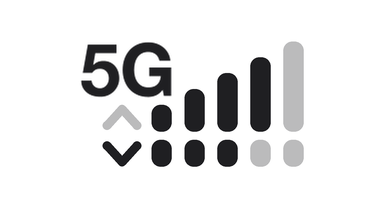
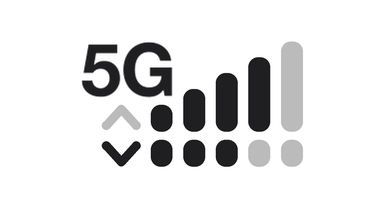
感叹号样式的列加粗一点（总宽不变，列宽:列间距 11:7 -> 12:6）

diff --git a/src/com/superboyyy/mosstackedsignal/IosSignal.java b/src/com/superboyyy/mosstackedsignal/IosSignal.java
@@ -11,9 +11,10 @@ import android.graphics.RectF;
  * 和 iOS 的比例一致；左右方向（列宽、列间距）按 w 算。
  */
 final class IosSignal {
-    // 从 iOS 截图量的比例（总高 44.5）：列宽 11、列间距 7；竖条和点之间比 iOS 紧一点（4.5 -> 3）。
+    // 从 iOS 截图量的比例（总高 44.5）：列宽 11、列间距 7；状态栏里竖条看着比 WiFi 弧线细，
+    // 总宽不变、列加粗一点（11:7 -> 12:6，约 6.5px -> 7px）；竖条和点之间比 iOS 紧一点（4.5 -> 3）。
     // 下排的点比 iOS 矮一点（11 -> 9.5）；第一根竖条和它下面的点一样高，往右均匀加高到 32（= 总高 - 点 - 间距）
-    private static final float COL_W = 11f, COL_GAP = 7f, DOT_H = 9.5f, ROW_GAP = 3f, BAR_MIN = DOT_H;
+    private static final float COL_W = 12f, COL_GAP = 6f, DOT_H = 9.5f, ROW_GAP = 3f, BAR_MIN = DOT_H;
     private static final float FULL_UNIT = 44.5f;
     private static final float ROUND_RADIUS = 0.45f;
 
